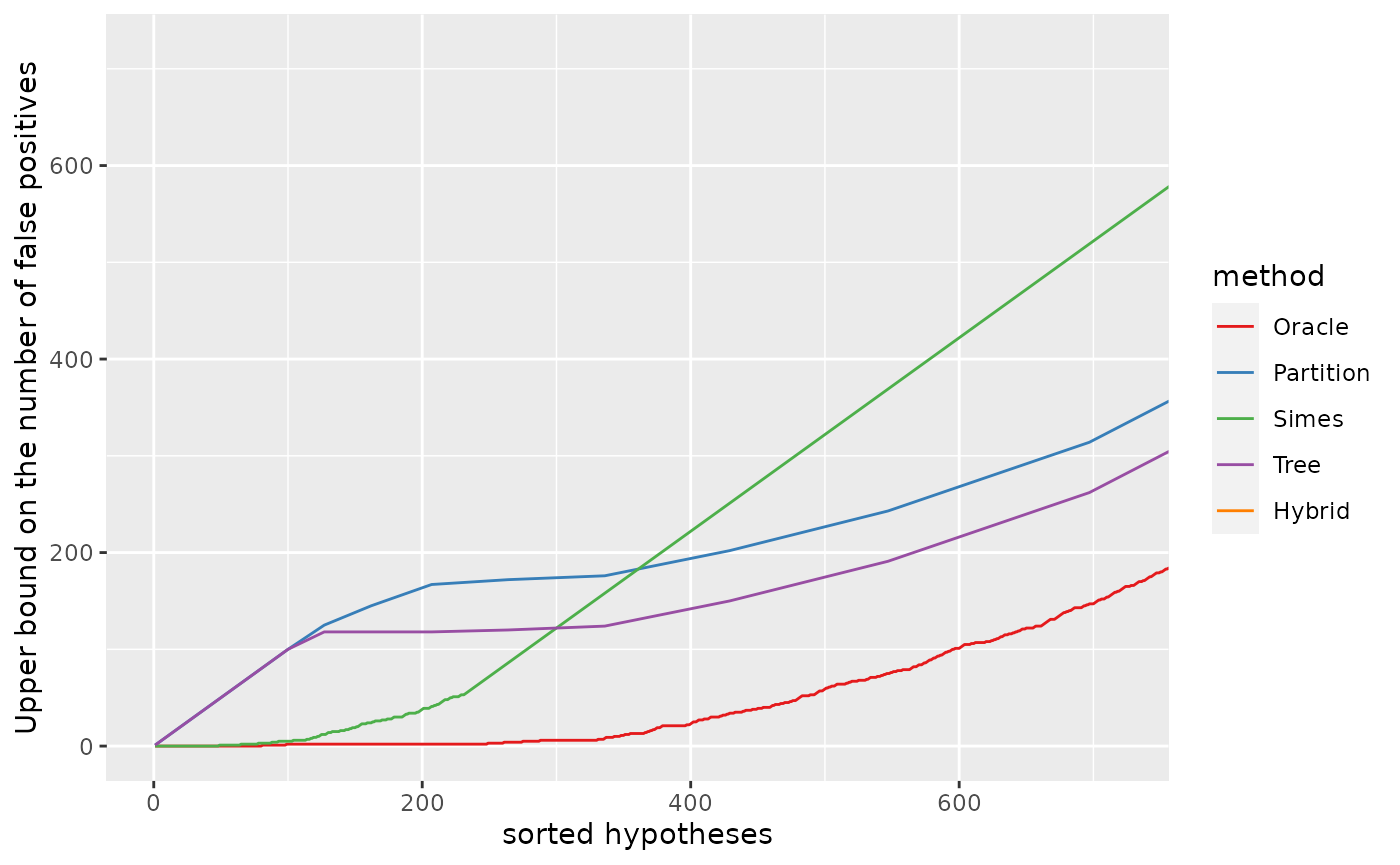
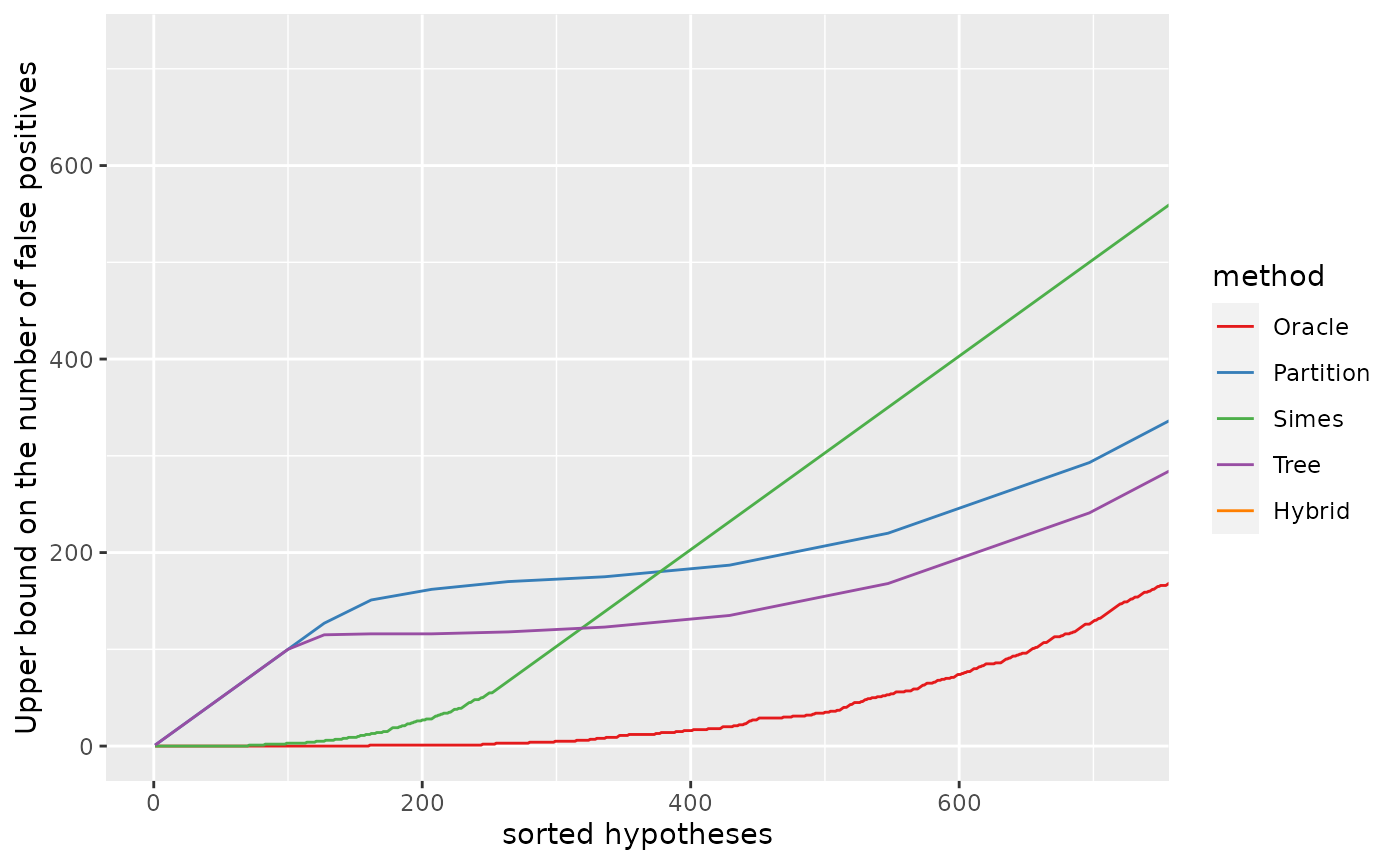
Built site for sansSouci: 0.12.4@61c0d70

diff --git a/reference/rowWelchTests.html b/reference/rowWelchTests.html
@@ -204,7 +204,7 @@ alternative approach. Biometrika, <em>38</em>, 330-336</p>
 <span class='va'>categ</span> <span class='op'>&lt;-</span> <span class='fu'><a href='https://rdrr.io/r/base/rep.html'>rep</a></span><span class='op'>(</span><span class='fu'><a href='https://rdrr.io/r/base/c.html'>c</a></span><span class='op'>(</span><span class='fl'>0</span>, <span class='fl'>1</span><span class='op'>)</span>, times<span class='op'>=</span><span class='fu'><a href='https://rdrr.io/r/base/c.html'>c</a></span><span class='op'>(</span><span class='fl'>27</span>, <span class='va'>n</span><span class='op'>-</span><span class='fl'>27</span><span class='op'>)</span><span class='op'>)</span>
 <span class='fu'><a href='https://rdrr.io/r/base/system.time.html'>system.time</a></span><span class='op'>(</span><span class='va'>fwt</span> <span class='op'>&lt;-</span> <span class='fu'>rowWelchTests</span><span class='op'>(</span><span class='va'>mat</span>, <span class='va'>categ</span>, alternative <span class='op'>=</span> <span class='st'>"greater"</span><span class='op'>)</span><span class='op'>)</span>
 </div><div class='output co'>#&gt;    user  system elapsed 
-#&gt;   0.001   0.000   0.002 </div><div class='input'><span class='fu'><a href='https://rdrr.io/r/utils/str.html'>str</a></span><span class='op'>(</span><span class='va'>fwt</span><span class='op'>)</span>
+#&gt;   0.001   0.000   0.001 </div><div class='input'><span class='fu'><a href='https://rdrr.io/r/utils/str.html'>str</a></span><span class='op'>(</span><span class='va'>fwt</span><span class='op'>)</span>
 </div><div class='output co'>#&gt; List of 4
 #&gt;  $ statistic: num [1:300] -1.603 -0.744 1.619 0.596 0.896 ...
 #&gt;  $ parameter: num [1:300] 30.2 13.4 22.5 17.7 18.6 ...
@@ -215,14 +215,14 @@ alternative approach. Biometrika, <em>38</em>, 330-336</p>
    <span class='fu'><a href='https://rdrr.io/r/stats/t.test.html'>t.test</a></span><span class='op'>(</span><span class='va'>x</span><span class='op'>[</span><span class='va'>categ</span><span class='op'>==</span><span class='fl'>1</span><span class='op'>]</span>, <span class='va'>x</span><span class='op'>[</span><span class='va'>categ</span><span class='op'>==</span><span class='fl'>0</span><span class='op'>]</span>, alternative <span class='op'>=</span> <span class='st'>"greater"</span><span class='op'>)</span><span class='op'>$</span><span class='va'>p.value</span>
 <span class='op'>}</span><span class='op'>)</span><span class='op'>)</span>
 </div><div class='output co'>#&gt;    user  system elapsed 
-#&gt;   0.038   0.000   0.039 </div><div class='input'><span class='fu'><a href='https://rdrr.io/r/base/all.html'>all</a></span><span class='op'>(</span><span class='fu'><a href='https://rdrr.io/r/base/MathFun.html'>abs</a></span><span class='op'>(</span><span class='va'>fwt</span><span class='op'>$</span><span class='va'>p.value</span><span class='op'>-</span><span class='va'>pwt</span><span class='op'>)</span> <span class='op'>&lt;</span> <span class='fl'>1e-10</span><span class='op'>)</span>  <span class='co'>## same results</span>
+#&gt;   0.042   0.000   0.041 </div><div class='input'><span class='fu'><a href='https://rdrr.io/r/base/all.html'>all</a></span><span class='op'>(</span><span class='fu'><a href='https://rdrr.io/r/base/MathFun.html'>abs</a></span><span class='op'>(</span><span class='va'>fwt</span><span class='op'>$</span><span class='va'>p.value</span><span class='op'>-</span><span class='va'>pwt</span><span class='op'>)</span> <span class='op'>&lt;</span> <span class='fl'>1e-10</span><span class='op'>)</span>  <span class='co'>## same results</span>
 </div><div class='output co'>#&gt; [1] TRUE</div><div class='input'>
 <span class='co'># with several contrasts/permutations</span>
 <span class='va'>B</span> <span class='op'>&lt;-</span> <span class='fl'>100</span>
 <span class='va'>categ_perm</span> <span class='op'>&lt;-</span> <span class='fu'><a href='https://rdrr.io/r/base/lapply.html'>replicate</a></span><span class='op'>(</span><span class='va'>B</span>, <span class='fu'><a href='https://rdrr.io/r/base/sample.html'>sample</a></span><span class='op'>(</span><span class='va'>categ</span><span class='op'>)</span><span class='op'>)</span>
 <span class='fu'><a href='https://rdrr.io/r/base/system.time.html'>system.time</a></span><span class='op'>(</span><span class='va'>fwt_perm</span> <span class='op'>&lt;-</span> <span class='fu'>rowWelchTests</span><span class='op'>(</span><span class='va'>mat</span>, <span class='va'>categ_perm</span>, alternative <span class='op'>=</span> <span class='st'>"greater"</span><span class='op'>)</span><span class='op'>)</span>
 </div><div class='output co'>#&gt;    user  system elapsed 
-#&gt;   0.013   0.000   0.014 </div><div class='input'><span class='fu'><a href='https://rdrr.io/r/utils/str.html'>str</a></span><span class='op'>(</span><span class='va'>fwt_perm</span><span class='op'>)</span>
+#&gt;   0.015   0.000   0.015 </div><div class='input'><span class='fu'><a href='https://rdrr.io/r/utils/str.html'>str</a></span><span class='op'>(</span><span class='va'>fwt_perm</span><span class='op'>)</span>
 </div><div class='output co'>#&gt; List of 4
 #&gt;  $ statistic: num [1:300, 1:100] -0.65 -1.26 -1.73 -2.8 0.75 ...
 #&gt;  $ parameter: num [1:300, 1:100] 18.1 26.9 31.1 31.9 17.2 ...

diff --git a/articles/jointErrorRateCalibration_simulations.html b/articles/jointErrorRateCalibration_simulations.html
@@ -172,7 +172,7 @@
 ##      (of size:   K=500)
 ## 
 ## Output:
-##  Calibration parameter:  lambda=0.2207848</code></pre>
+##  Calibration parameter:  lambda=0.2793058</code></pre>
 <p>The output of the calibration is the following <code>SansSouci</code> object. In particular:</p>
 <ul>
 <li>
@@ -195,7 +195,7 @@
 <div class="sourceCode" id="cb7"><pre class="downlit sourceCode r">
 <code class="sourceCode R"><span class="va">cal</span><span class="op">$</span><span class="va">output</span><span class="op">$</span><span class="va">lambda</span></code></pre></div>
 <pre><code>##       20% 
-## 0.2207848</code></pre>
+## 0.2793058</code></pre>
 <div class="sourceCode" id="cb9"><pre class="downlit sourceCode r">
 <code class="sourceCode R"><span class="va">cal</span><span class="op">$</span><span class="va">output</span><span class="op">$</span><span class="va">lambda</span> <span class="op">&gt;</span> <span class="va">alpha</span></code></pre></div>
 <pre><code>##  20% 
@@ -213,8 +213,8 @@
 ## 2 2 Simes   TP     2
 ## 3 3 Simes   TP     3
 ## 4 4 Simes   TP     4
-## 5 5 Simes   TP     5
-## 6 6 Simes   TP     6</code></pre>
+## 5 5 Simes   TP     4
+## 6 6 Simes   TP     5</code></pre>
 <p>We compare it to the true number of false positives among the most significant items, and to the Simes bound without calibration</p>
 <div class="sourceCode" id="cb13"><pre class="downlit sourceCode r">
 <code class="sourceCode R"><span class="va">cal0</span> <span class="op">&lt;-</span> <span class="fu"><a href="https://generics.r-lib.org/reference/fit.html">fit</a></span><span class="op">(</span><span class="va">obj</span>, alpha <span class="op">=</span> <span class="va">alpha</span>, B <span class="op">=</span> <span class="fl">0</span>, family <span class="op">=</span> <span class="st">"Simes"</span><span class="op">)</span>
@@ -260,7 +260,7 @@
 ##      (of size:   K=500)
 ## 
 ## Output:
-##  Calibration parameter:  lambda=0.2918802</code></pre>
+##  Calibration parameter:  lambda=0.3667237</code></pre>
 <p>Again we expect <span class="math inline">\(\lambda &gt; \alpha\)</span>.</p>
 <div id="confidence-curves" class="section level3">
 <h3 class="hasAnchor">
@@ -283,7 +283,7 @@
 <a href="#session-information" class="anchor"></a>Session information</h2>
 <div class="sourceCode" id="cb21"><pre class="downlit sourceCode r">
 <code class="sourceCode R"><span class="fu"><a href="https://rdrr.io/r/utils/sessionInfo.html">sessionInfo</a></span><span class="op">(</span><span class="op">)</span></code></pre></div>
-<pre><code>## R version 4.1.1 (2021-08-10)
+<pre><code>## R version 4.1.2 (2021-11-01)
 ## Platform: x86_64-pc-linux-gnu (64-bit)
 ## Running under: Ubuntu 20.04.3 LTS
 ## 
@@ -304,14 +304,14 @@
 ## [1] ggplot2_3.3.5    sansSouci_0.12.4
 ## 
 ## loaded via a namespace (and not attached):
-##  [1] Rcpp_1.0.7         highr_0.9          pillar_1.6.4       compiler_4.1.1    
-##  [5] jquerylib_0.1.4    tools_4.1.1        digest_0.6.28      evaluate_0.14     
+##  [1] Rcpp_1.0.7         highr_0.9          pillar_1.6.4       compiler_4.1.2    
+##  [5] jquerylib_0.1.4    tools_4.1.2        digest_0.6.28      evaluate_0.14     
 ##  [9] memoise_2.0.0      lifecycle_1.0.1    tibble_3.1.5       gtable_0.3.0      
 ## [13] lattice_0.20-45    pkgconfig_2.0.3    rlang_0.4.12       Matrix_1.3-4      
 ## [17] yaml_2.2.1         pkgdown_1.6.1      xfun_0.27          fastmap_1.1.0     
 ## [21] withr_2.4.2        stringr_1.4.0      knitr_1.36         vctrs_0.3.8       
 ## [25] desc_1.4.0         generics_0.1.1     fs_1.5.0           systemfonts_1.0.3 
-## [29] rprojroot_2.0.2    grid_4.1.1         glue_1.4.2         R6_2.5.1          
+## [29] rprojroot_2.0.2    grid_4.1.2         glue_1.4.2         R6_2.5.1          
 ## [33] textshaping_0.3.6  fansi_0.5.0        rmarkdown_2.11     farver_2.1.0      
 ## [37] magrittr_2.0.1     ellipsis_0.3.2     scales_1.1.1       htmltools_0.5.2   
 ## [41] matrixStats_0.61.0 colorspace_2.0-2   labeling_0.4.2     ragg_1.1.3        

diff --git a/articles/post-hoc_differential-expression_RNAseq.html b/articles/post-hoc_differential-expression_RNAseq.html
@@ -100,7 +100,7 @@
       <h1 data-toc-skip>Permutation-based post hoc inference for differential gene expression studies: RNAseq data</h1>
                         <h4 class="author">Nicolas Enjalbert Courrech and Pierre Neuvial</h4>
             
-            <h4 class="date">2021-10-31</h4>
+            <h4 class="date">2021-11-01</h4>
       
       <small class="dont-index">Source: <a href="https://github.com/pneuvial/sanssouci/blob/master/vignettes/post-hoc_differential-expression_RNAseq.Rmd"><code>vignettes/post-hoc_differential-expression_RNAseq.Rmd</code></a></small>
       <div class="hidden name"><code>post-hoc_differential-expression_RNAseq.Rmd</code></div>
@@ -386,7 +386,7 @@
 <a href="#session-information" class="anchor"></a>Session information</h1>
 <div class="sourceCode" id="cb23"><pre class="downlit sourceCode r">
 <code class="sourceCode R"><span class="fu"><a href="https://rdrr.io/r/utils/sessionInfo.html">sessionInfo</a></span><span class="op">(</span><span class="op">)</span>
-<span class="co">#&gt; R version 4.1.1 (2021-08-10)</span>
+<span class="co">#&gt; R version 4.1.2 (2021-11-01)</span>
 <span class="co">#&gt; Platform: x86_64-pc-linux-gnu (64-bit)</span>
 <span class="co">#&gt; Running under: Ubuntu 20.04.3 LTS</span>
 <span class="co">#&gt; </span>
@@ -407,14 +407,14 @@
 <span class="co">#&gt; [1] edgeR_3.36.0     limma_3.50.0     sansSouci_0.12.4 ggplot2_3.3.5   </span>
 <span class="co">#&gt; </span>
 <span class="co">#&gt; loaded via a namespace (and not attached):</span>
-<span class="co">#&gt;  [1] Rcpp_1.0.7         highr_0.9          compiler_4.1.1     pillar_1.6.4      </span>
-<span class="co">#&gt;  [5] tools_4.1.1        digest_0.6.28      lattice_0.20-45    evaluate_0.14     </span>
+<span class="co">#&gt;  [1] Rcpp_1.0.7         highr_0.9          compiler_4.1.2     pillar_1.6.4      </span>
+<span class="co">#&gt;  [5] tools_4.1.2        digest_0.6.28      lattice_0.20-45    evaluate_0.14     </span>
 <span class="co">#&gt;  [9] memoise_2.0.0      lifecycle_1.0.1    tibble_3.1.5       gtable_0.3.0      </span>
 <span class="co">#&gt; [13] pkgconfig_2.0.3    rlang_0.4.12       Matrix_1.3-4       yaml_2.2.1        </span>
 <span class="co">#&gt; [17] pkgdown_1.6.1      xfun_0.27          fastmap_1.1.0      withr_2.4.2       </span>
 <span class="co">#&gt; [21] stringr_1.4.0      knitr_1.36         generics_0.1.1     desc_1.4.0        </span>
 <span class="co">#&gt; [25] fs_1.5.0           vctrs_0.3.8        systemfonts_1.0.3  locfit_1.5-9.4    </span>
-<span class="co">#&gt; [29] rprojroot_2.0.2    grid_4.1.1         glue_1.4.2         R6_2.5.1          </span>
+<span class="co">#&gt; [29] rprojroot_2.0.2    grid_4.1.2         glue_1.4.2         R6_2.5.1          </span>
 <span class="co">#&gt; [33] textshaping_0.3.6  fansi_0.5.0        rmarkdown_2.11     farver_2.1.0      </span>
 <span class="co">#&gt; [37] magrittr_2.0.1     codetools_0.2-18   matrixStats_0.61.0 scales_1.1.1      </span>
 <span class="co">#&gt; [41] htmltools_0.5.2    ellipsis_0.3.2     colorspace_2.0-2   labeling_0.4.2    </span>

diff --git a/articles/post-hoc_differential-expression.html b/articles/post-hoc_differential-expression.html
@@ -100,7 +100,7 @@
       <h1 data-toc-skip>Permutation-based post hoc inference for differential gene expression studies</h1>
                         <h4 class="author">Gilles Blanchard, Pierre Neuvial and Etienne Roquain</h4>
             
-            <h4 class="date">2021-10-31</h4>
+            <h4 class="date">2021-11-01</h4>
       
       <small class="dont-index">Source: <a href="https://github.com/pneuvial/sanssouci/blob/master/vignettes/post-hoc_differential-expression.Rmd"><code>vignettes/post-hoc_differential-expression.Rmd</code></a></small>
       <div class="hidden name"><code>post-hoc_differential-expression.Rmd</code></div>
@@ -389,7 +389,7 @@
 <a href="#session-information" class="anchor"></a>Session information</h1>
 <div class="sourceCode" id="cb23"><pre class="downlit sourceCode r">
 <code class="sourceCode R"><span class="fu"><a href="https://rdrr.io/r/utils/sessionInfo.html">sessionInfo</a></span><span class="op">(</span><span class="op">)</span>
-<span class="co">#&gt; R version 4.1.1 (2021-08-10)</span>
+<span class="co">#&gt; R version 4.1.2 (2021-11-01)</span>
 <span class="co">#&gt; Platform: x86_64-pc-linux-gnu (64-bit)</span>
 <span class="co">#&gt; Running under: Ubuntu 20.04.3 LTS</span>
 <span class="co">#&gt; </span>
@@ -410,14 +410,14 @@
 <span class="co">#&gt; [1] sansSouci_0.12.4 ggplot2_3.3.5   </span>
 <span class="co">#&gt; </span>
 <span class="co">#&gt; loaded via a namespace (and not attached):</span>
-<span class="co">#&gt;  [1] Rcpp_1.0.7         RColorBrewer_1.1-2 highr_0.9          compiler_4.1.1    </span>
-<span class="co">#&gt;  [5] pillar_1.6.4       tools_4.1.1        digest_0.6.28      lattice_0.20-45   </span>
+<span class="co">#&gt;  [1] Rcpp_1.0.7         RColorBrewer_1.1-2 highr_0.9          compiler_4.1.2    </span>
+<span class="co">#&gt;  [5] pillar_1.6.4       tools_4.1.2        digest_0.6.28      lattice_0.20-45   </span>
 <span class="co">#&gt;  [9] evaluate_0.14      memoise_2.0.0      lifecycle_1.0.1    tibble_3.1.5      </span>
 <span class="co">#&gt; [13] gtable_0.3.0       pkgconfig_2.0.3    rlang_0.4.12       Matrix_1.3-4      </span>
 <span class="co">#&gt; [17] yaml_2.2.1         pkgdown_1.6.1      xfun_0.27          fastmap_1.1.0     </span>
 <span class="co">#&gt; [21] withr_2.4.2        stringr_1.4.0      knitr_1.36         generics_0.1.1    </span>
 <span class="co">#&gt; [25] desc_1.4.0         fs_1.5.0           vctrs_0.3.8        systemfonts_1.0.3 </span>
-<span class="co">#&gt; [29] rprojroot_2.0.2    grid_4.1.1         glue_1.4.2         R6_2.5.1          </span>
+<span class="co">#&gt; [29] rprojroot_2.0.2    grid_4.1.2         glue_1.4.2         R6_2.5.1          </span>
 <span class="co">#&gt; [33] textshaping_0.3.6  fansi_0.5.0        rmarkdown_2.11     farver_2.1.0      </span>
 <span class="co">#&gt; [37] magrittr_2.0.1     codetools_0.2-18   matrixStats_0.61.0 scales_1.1.1      </span>
 <span class="co">#&gt; [41] htmltools_0.5.2    ellipsis_0.3.2     colorspace_2.0-2   labeling_0.4.2    </span>

diff --git a/articles/post-hoc_fMRI.html b/articles/post-hoc_fMRI.html
@@ -100,7 +100,7 @@
       <h1 data-toc-skip>Permutation-based post hoc inference for fMRI studies</h1>
                         <h4 class="author">Alexandre Blain and Pierre Neuvial</h4>
             
-            <h4 class="date">2021-10-31</h4>
+            <h4 class="date">2021-11-01</h4>
       
       <small class="dont-index">Source: <a href="https://github.com/pneuvial/sanssouci/blob/master/vignettes/post-hoc_fMRI.Rmd"><code>vignettes/post-hoc_fMRI.Rmd</code></a></small>
       <div class="hidden name"><code>post-hoc_fMRI.Rmd</code></div>
@@ -301,7 +301,7 @@
 <a href="#session-information" class="anchor"></a>Session information</h1>
 <div class="sourceCode" id="cb17"><pre class="downlit sourceCode r">
 <code class="sourceCode R"><span class="fu"><a href="https://rdrr.io/r/utils/sessionInfo.html">sessionInfo</a></span><span class="op">(</span><span class="op">)</span>
-<span class="co">#&gt; R version 4.1.1 (2021-08-10)</span>
+<span class="co">#&gt; R version 4.1.2 (2021-11-01)</span>
 <span class="co">#&gt; Platform: x86_64-pc-linux-gnu (64-bit)</span>
 <span class="co">#&gt; Running under: Ubuntu 20.04.3 LTS</span>
 <span class="co">#&gt; </span>
@@ -322,14 +322,14 @@
 <span class="co">#&gt; [1] sansSouci_0.12.4 ggplot2_3.3.5   </span>
 <span class="co">#&gt; </span>
 <span class="co">#&gt; loaded via a namespace (and not attached):</span>
-<span class="co">#&gt;  [1] Rcpp_1.0.7         RColorBrewer_1.1-2 highr_0.9          compiler_4.1.1    </span>
-<span class="co">#&gt;  [5] pillar_1.6.4       tools_4.1.1        digest_0.6.28      lattice_0.20-45   </span>
+<span class="co">#&gt;  [1] Rcpp_1.0.7         RColorBrewer_1.1-2 highr_0.9          compiler_4.1.2    </span>
+<span class="co">#&gt;  [5] pillar_1.6.4       tools_4.1.2        digest_0.6.28      lattice_0.20-45   </span>
 <span class="co">#&gt;  [9] evaluate_0.14      memoise_2.0.0      lifecycle_1.0.1    tibble_3.1.5      </span>
 <span class="co">#&gt; [13] gtable_0.3.0       pkgconfig_2.0.3    rlang_0.4.12       Matrix_1.3-4      </span>
 <span class="co">#&gt; [17] yaml_2.2.1         pkgdown_1.6.1      xfun_0.27          fastmap_1.1.0     </span>
 <span class="co">#&gt; [21] withr_2.4.2        stringr_1.4.0      knitr_1.36         generics_0.1.1    </span>
 <span class="co">#&gt; [25] desc_1.4.0         fs_1.5.0           vctrs_0.3.8        systemfonts_1.0.3 </span>
-<span class="co">#&gt; [29] rprojroot_2.0.2    grid_4.1.1         glue_1.4.2         R6_2.5.1          </span>
+<span class="co">#&gt; [29] rprojroot_2.0.2    grid_4.1.2         glue_1.4.2         R6_2.5.1          </span>
 <span class="co">#&gt; [33] textshaping_0.3.6  fansi_0.5.0        rmarkdown_2.11     farver_2.1.0      </span>
 <span class="co">#&gt; [37] magrittr_2.0.1     codetools_0.2-18   matrixStats_0.61.0 scales_1.1.1      </span>
 <span class="co">#&gt; [41] htmltools_0.5.2    ellipsis_0.3.2     colorspace_2.0-2   labeling_0.4.2    </span>

diff --git a/articles/Simes_equi-correlation.html b/articles/Simes_equi-correlation.html
@@ -100,7 +100,7 @@
       <h1 data-toc-skip>Conservativeness of the Simes inequality under positive dependence</h1>
                         <h4 class="author">P. Neuvial</h4>
             
-            <h4 class="date">2021-10-31</h4>
+            <h4 class="date">2021-11-01</h4>
       
       <small class="dont-index">Source: <a href="https://github.com/pneuvial/sanssouci/blob/master/vignettes/Simes_equi-correlation.Rmd"><code>vignettes/Simes_equi-correlation.Rmd</code></a></small>
       <div class="hidden name"><code>Simes_equi-correlation.Rmd</code></div>
@@ -179,19 +179,19 @@
 <tbody>
 <tr class="odd">
 <td align="left">Achieved level/target level</td>
-<td align="right">1.00</td>
-<td align="right">0.86</td>
-<td align="right">0.65</td>
-<td align="right">0.42</td>
-<td align="right">0.42</td>
+<td align="right">0.99</td>
+<td align="right">0.97</td>
+<td align="right">0.70</td>
+<td align="right">0.45</td>
+<td align="right">0.46</td>
 </tr>
 <tr class="even">
 <td align="left">Standard error</td>
 <td align="right">0.06</td>
 <td align="right">0.06</td>
 <td align="right">0.05</td>
-<td align="right">0.04</td>
-<td align="right">0.04</td>
+<td align="right">0.05</td>
+<td align="right">0.05</td>
 </tr>
 </tbody>
 </table>
@@ -210,7 +210,7 @@
 <a href="#session-information" class="anchor"></a>Session information</h2>
 <div class="sourceCode" id="cb6"><pre class="downlit sourceCode r">
 <code class="sourceCode R"><span class="fu"><a href="https://rdrr.io/r/utils/sessionInfo.html">sessionInfo</a></span><span class="op">(</span><span class="op">)</span></code></pre></div>
-<pre><code>## R version 4.1.1 (2021-08-10)
+<pre><code>## R version 4.1.2 (2021-11-01)
 ## Platform: x86_64-pc-linux-gnu (64-bit)
 ## Running under: Ubuntu 20.04.3 LTS
 ## 
@@ -233,12 +233,12 @@
 ## loaded via a namespace (and not attached):
 ##  [1] Rcpp_1.0.7        magrittr_2.0.1    lattice_0.20-45   R6_2.5.1         
 ##  [5] ragg_1.1.3        rlang_0.4.12      fastmap_1.1.0     highr_0.9        
-##  [9] stringr_1.4.0     tools_4.1.1       grid_4.1.1        xfun_0.27        
+##  [9] stringr_1.4.0     tools_4.1.2       grid_4.1.2        xfun_0.27        
 ## [13] jquerylib_0.1.4   htmltools_0.5.2   systemfonts_1.0.3 yaml_2.2.1       
 ## [17] digest_0.6.28     rprojroot_2.0.2   pkgdown_1.6.1     crayon_1.4.2     
 ## [21] textshaping_0.3.6 Matrix_1.3-4      fs_1.5.0          memoise_2.0.0    
 ## [25] cachem_1.0.6      evaluate_0.14     rmarkdown_2.11    stringi_1.7.5    
-## [29] compiler_4.1.1    generics_0.1.1    desc_1.4.0</code></pre>
+## [29] compiler_4.1.2    generics_0.1.1    desc_1.4.0</code></pre>
 </div>
 <div id="references" class="section level2 unnumbered">
 <h2 class="hasAnchor">

diff --git a/articles/confidenceCurves_localized.html b/articles/confidenceCurves_localized.html
@@ -100,7 +100,7 @@
       <h1 data-toc-skip>Confidence curves for structured hypotheses</h1>
                         <h4 class="author">G. Durand, G. Blanchard, P. Neuvial, E. Roquain</h4>
             
-            <h4 class="date">2021-10-31</h4>
+            <h4 class="date">2021-11-01</h4>
       
       <small class="dont-index">Source: <a href="https://github.com/pneuvial/sanssouci/blob/master/vignettes/confidenceCurves_localized.Rmd"><code>vignettes/confidenceCurves_localized.Rmd</code></a></small>
       <div class="hidden name"><code>confidenceCurves_localized.Rmd</code></div>
@@ -263,7 +263,7 @@ Figure 11 in Durand et al.
 <a href="#session-information" class="anchor"></a>Session information</h2>
 <div class="sourceCode" id="cb18"><pre class="downlit sourceCode r">
 <code class="sourceCode R"><span class="fu"><a href="https://rdrr.io/r/utils/sessionInfo.html">sessionInfo</a></span><span class="op">(</span><span class="op">)</span></code></pre></div>
-<pre><code>## R version 4.1.1 (2021-08-10)
+<pre><code>## R version 4.1.2 (2021-11-01)
 ## Platform: x86_64-pc-linux-gnu (64-bit)
 ## Running under: Ubuntu 20.04.3 LTS
 ## 
@@ -284,14 +284,14 @@ Figure 11 in Durand et al.
 ## [1] ggplot2_3.3.5    sansSouci_0.12.4
 ## 
 ## loaded via a namespace (and not attached):
-##  [1] Rcpp_1.0.7         RColorBrewer_1.1-2 pillar_1.6.4       compiler_4.1.1    
-##  [5] jquerylib_0.1.4    highr_0.9          tools_4.1.1        digest_0.6.28     
+##  [1] Rcpp_1.0.7         RColorBrewer_1.1-2 pillar_1.6.4       compiler_4.1.2    
+##  [5] jquerylib_0.1.4    highr_0.9          tools_4.1.2        digest_0.6.28     
 ##  [9] tibble_3.1.5       evaluate_0.14      memoise_2.0.0      lifecycle_1.0.1   
 ## [13] gtable_0.3.0       lattice_0.20-45    pkgconfig_2.0.3    rlang_0.4.12      
 ## [17] Matrix_1.3-4       yaml_2.2.1         pkgdown_1.6.1      xfun_0.27         
 ## [21] fastmap_1.1.0      withr_2.4.2        stringr_1.4.0      knitr_1.36        
 ## [25] vctrs_0.3.8        desc_1.4.0         generics_0.1.1     fs_1.5.0          
-## [29] systemfonts_1.0.3  rprojroot_2.0.2    grid_4.1.1         glue_1.4.2        
+## [29] systemfonts_1.0.3  rprojroot_2.0.2    grid_4.1.2         glue_1.4.2        
 ## [33] R6_2.5.1           textshaping_0.3.6  fansi_0.5.0        rmarkdown_2.11    
 ## [37] farver_2.1.0       magrittr_2.0.1     ellipsis_0.3.2     scales_1.1.1      
 ## [41] htmltools_0.5.2    matrixStats_0.61.0 colorspace_2.0-2   labeling_0.4.2    

diff --git a/articles/IIDEA.html b/articles/IIDEA.html
@@ -100,7 +100,7 @@
       <h1 data-toc-skip>IIDEA: Interactive Inference for Differential Expression Analyses</h1>
                         <h4 class="author">Nicolas Enjalbert-Courrech and Pierre Neuvial</h4>
             
-            <h4 class="date">2021-10-31</h4>
+            <h4 class="date">2021-11-01</h4>
       
       <small class="dont-index">Source: <a href="https://github.com/pneuvial/sanssouci/blob/master/vignettes/IIDEA.Rmd"><code>vignettes/IIDEA.Rmd</code></a></small>
       <div class="hidden name"><code>IIDEA.Rmd</code></div>
